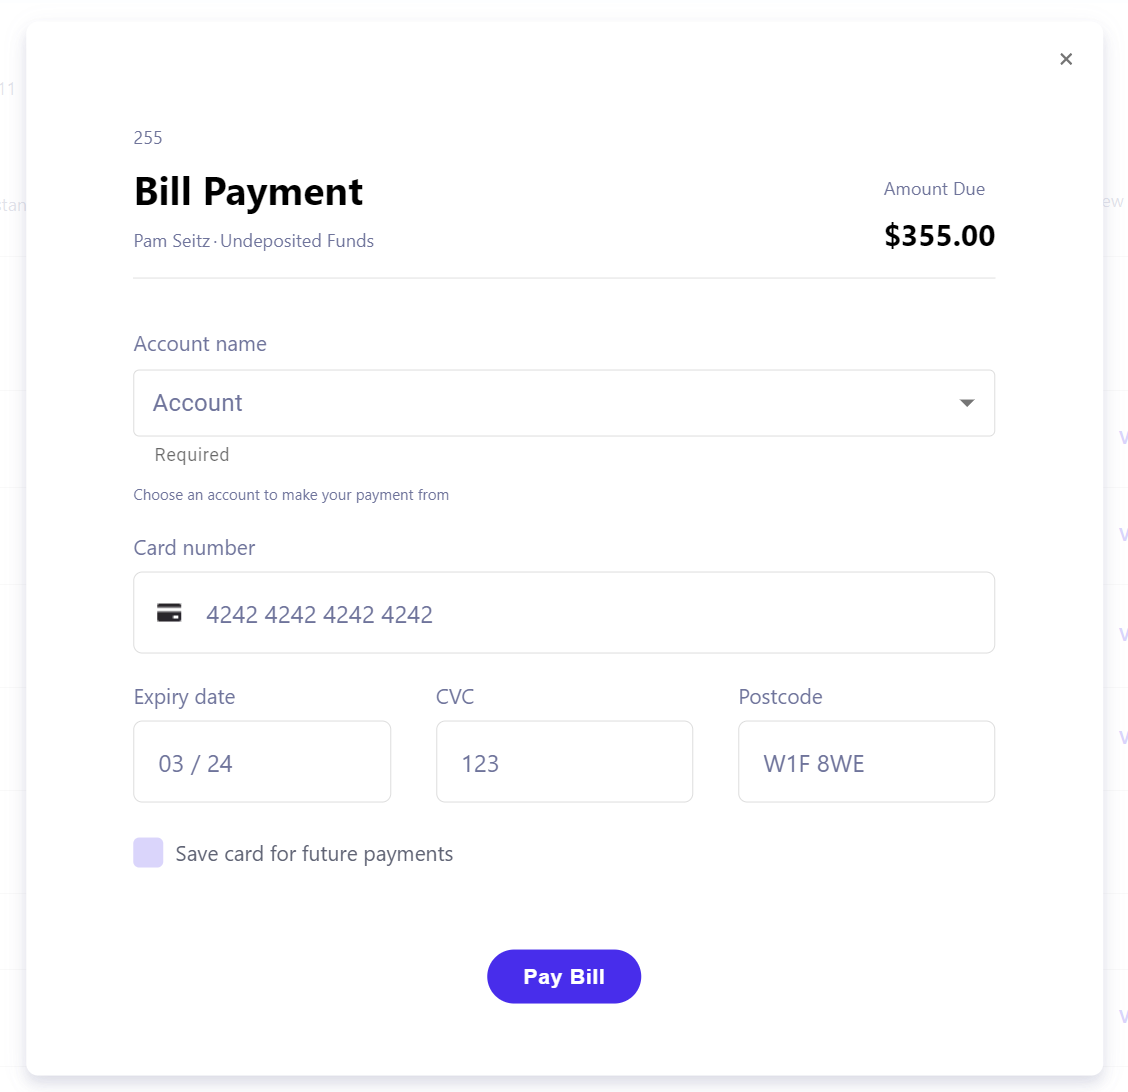
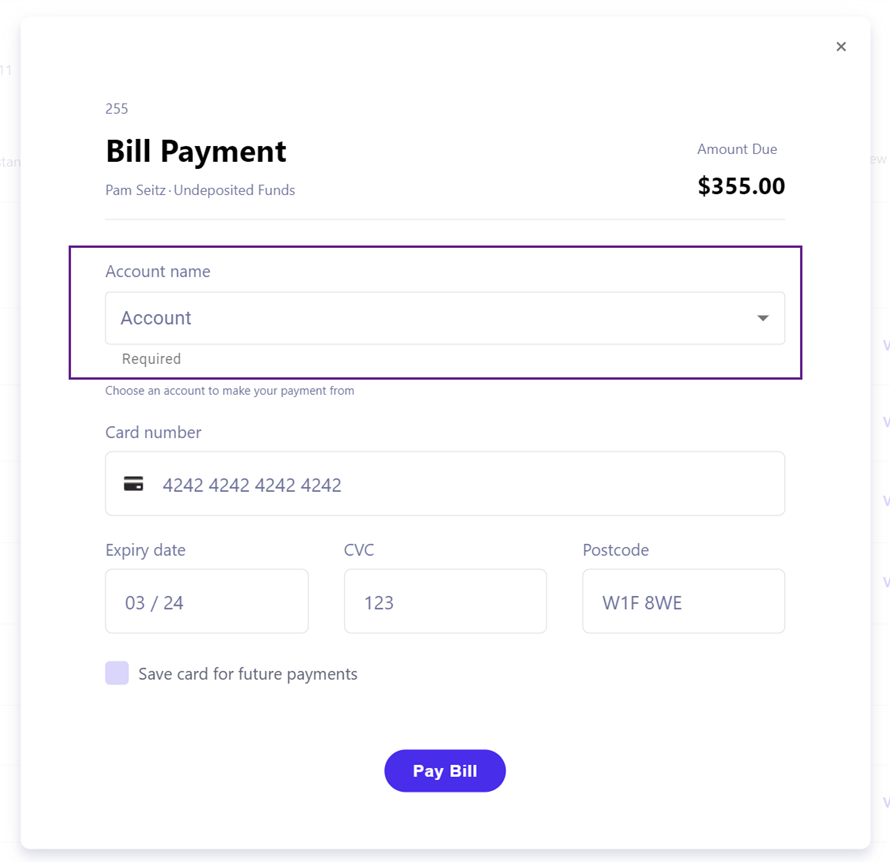
screenshots

Changed region(s): [[0.0607, 0.2715, 0.9101, 0.4524]]

diff --git a/docs/accounting-api/guides/bill-pay/use-bill-pay-demo-app.md b/docs/accounting-api/guides/bill-pay/use-bill-pay-demo-app.md
@@ -38,12 +38,12 @@ For more details about how the app creates a connection to QuickBooks Online via
 
 Once you've connected your accounting platform, you'll see a table of open and paid bills from the company you just connected. These are pulled from your sandbox QuickBooks Online company and ordered by issue date. 
 
-![Bill pay demo app UI](/img/use-cases/bill-pay/bill-pay_demo-bill-interface.png "The Bill pay demo app UI.")
+![bill-pay_app-view](/img/use-cases/bill-pay/bill-pay_app-view.png "Bill pay demo app UI")
 
 1. If you can only see paid bills, use the **View unpaid bills only** toggle to filter the list.
 2. Click **View** next to an unpaid bill to open the **Bill** view.
    
-   ![bill-pay_invoice-detail-dialog](/img/use-cases/bill-pay/bill-pay_invoice-detail-dialog.png "The Bill view shows additional information about an unpaid bill.")
+   ![bill-pay_invoice-detail-dialog](/img/use-cases/bill-pay/bill-pay_bill-detail-dialog-renamed.png "The Bill view shows additional information about an unpaid bill.")
    
    This contains additional information about the bill, including the bill number, due date, and line items (if any).
    
@@ -54,7 +54,9 @@ Once you've connected your accounting platform, you'll see a table of open and p
 Next, you can make a payment against a bill. When you do so, the app automatically pushes a bill payment to the accounting platform&mdash;in this case, QuickBooks Online. The payment is then reconciled against the source bill, which is marked as *paid*.
 
 1. In the **Bill Payment** view, choose an account from the **Account name** dropdown. This is the account in QuickBooks Online to which you want to assign the bill payment.
-
+   
+   ![bill-pay_payment-view](/img/use-cases/bill-pay/bill-pay_payment-view.png "The Bill Payment view with the Account Name field highlighted.")
+   
    :::info Accounts displayed
    Only banking accounts in the same currency as the bill are displayed.
    :::
